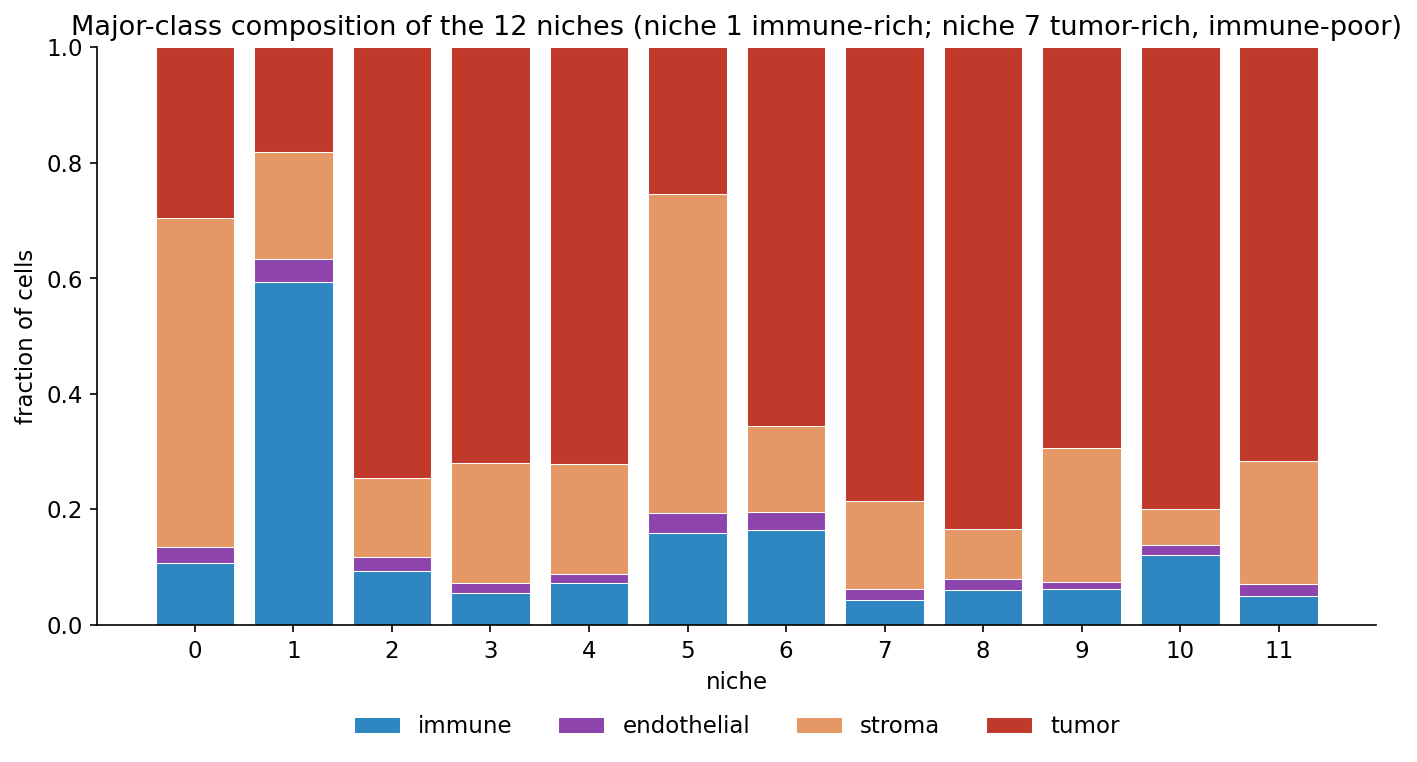
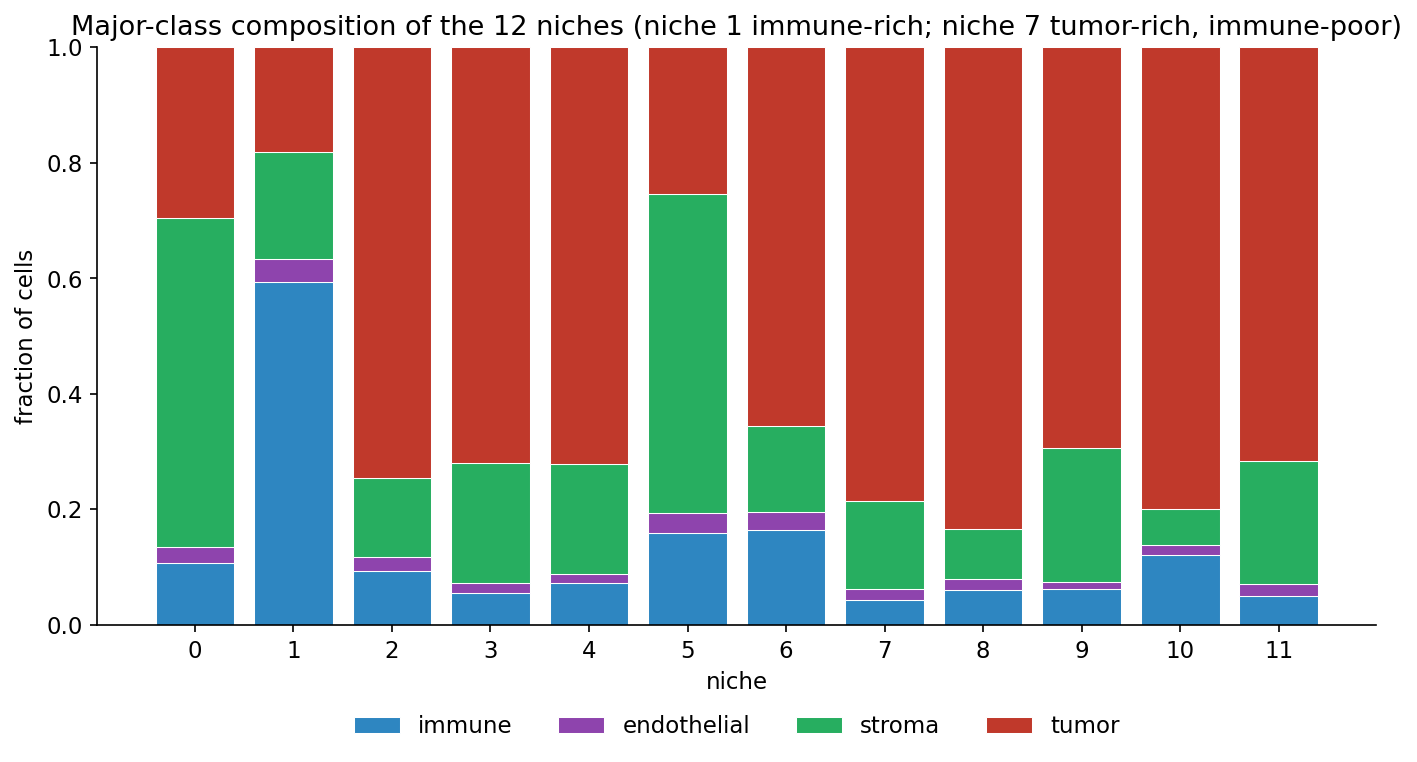
docs: add the four-core coordinate-validation figure as the README hero
Reproduces the four Basel cores (97/87/89/32% tumor) coloured by major class with the matched palette (green stroma), placed as the first image with a caption that frames it as the coordinate-recovery proof (nests vs confetti). Regenerates every figure with the consistent palette.

Changed region(s): [[0.2484, 0.2415, 0.9315, 0.7848], [0.0932, 0.1811, 0.2484, 0.7244], [0.5589, 0.9357, 0.59, 0.9659]]

diff --git a/scripts/make_figures.py b/scripts/make_figures.py
@@ -38,9 +38,18 @@ MAJOR_ORDER = ["immune", "endothelial", "stroma", "tumor"]
 MAJOR_COLOR = {
     "immune": "#2E86C1",
     "endothelial": "#8E44AD",
-    "stroma": "#E59866",
+    "stroma": "#27AE60",
     "tumor": "#C0392B",
 }
+
+# Four cores that span the tumor-fraction range, from homogeneous (nests) to
+# compartmentalised, used for the coordinate-validation hero figure.
+HERO_CORES = [
+    "BaselTMA_SP43_168_X10Y5",
+    "BaselTMA_SP42_127_X2Y8",
+    "BaselTMA_SP43_108_X13Y8",
+    "BaselTMA_SP43_144_X15Y1",
+]
 
 plt.rcParams.update(
     {
@@ -229,34 +238,32 @@ def fig_km_niche7(a: ad.AnnData) -> None:
 
 
 def fig_cores_spatial(a: ad.AnnData) -> None:
-    """Figure 2: example cores plotted at recovered coordinates, coloured by major
-    class, spanning tumor fraction from homogeneous to compartmentalised."""
+    """Coordinate-validation hero: four Basel cores plotted at their recovered
+    coordinates and coloured by major class, spanning tumor fraction from
+    homogeneous (nests) to compartmentalised. A correct mask-to-cell join produces
+    tissue morphology; a scrambled join would produce uniform confetti."""
     obs = a.obs
     xy = np.asarray(a.obsm["spatial"], dtype=float)
-    frac = obs.groupby("core", observed=True).apply(
-        lambda d: (d["major"] == "tumor").mean()
-    )
-    counts = obs["core"].value_counts()
-    big = counts[counts > 1500].index
-    frac = frac[frac.index.isin(big)].sort_values()
-    picks = [frac.index[0], frac.index[len(frac) // 3], frac.index[2 * len(frac) // 3], frac.index[-1]]
-    fig, axes = plt.subplots(1, 4, figsize=(16, 4.4))
-    core_arr = obs["core"].to_numpy()
+    core_arr = obs["core"].astype(str).to_numpy()
     maj_arr = obs["major"].astype(str).to_numpy()
-    for ax, core in zip(axes, picks):
+    order = ["tumor", "stroma", "immune", "endothelial"]  # legend + z-order
+    fig, axes = plt.subplots(1, 4, figsize=(16, 4.6))
+    for ax, core in zip(axes, HERO_CORES):
         m = core_arr == core
-        for cls in MAJOR_ORDER:
+        pct = int(round((maj_arr[m] == "tumor").mean() * 100))
+        for cls in order:
             mm = m & (maj_arr == cls)
             ax.scatter(xy[mm, 0], xy[mm, 1], s=2, c=MAJOR_COLOR[cls], label=cls)
-        ax.set_title(f"{int(frac[core] * 100)}% tumor", fontsize=11)
+        ax.set_title(f"{core}\n{int(m.sum()):,} cells, {pct}% tumor", fontsize=9)
         ax.set_xticks([])
         ax.set_yticks([])
         ax.set_aspect("equal")
-    axes[0].legend(markerscale=4, loc="upper left", fontsize=8, frameon=False)
+    axes[0].legend(markerscale=4, loc="upper right", fontsize=8, frameon=False)
     fig.suptitle(
-        "Recovered coordinates for four cores, coloured by major class "
-        "(left homogeneous, right compartmentalised)",
-        y=1.02,
+        "Basel cores at recovered coordinates, coloured by major class. "
+        "A correct join shows tissue nests and voids; a scrambled join would be uniform confetti.",
+        y=1.03,
+        fontsize=12,
     )
     _save(fig, "cores_spatial.png")
 

diff --git a/README.md b/README.md
@@ -6,6 +6,10 @@ Built for the Owkin Rewiring Biology Hackathon. Validated on the Basel breast ca
 
 An AI reading a tumor sees a composition vector. A pathologist sees a picture. Two patients can have identical cell-type proportions and opposite outcomes, and the only thing that separates them is where the cells sit. Locale supplies the map. More importantly, it supplies the limits of the map: the failure mode that destroys an AI Scientist in a regulated setting is not a missed finding, it is a confident report of a finding that is not there. Locale is built so that its refusals are as legible as its results.
 
+![Basel cores at recovered coordinates, coloured by major class](docs/figures/cores_spatial.png)
+
+*Four cores from the cohort, every cell drawn at its recovered coordinate and coloured by major class (tumor red, stroma green, immune blue, endothelial purple). The leftmost core is 97% tumor and shows genuine tissue nests and voids; the rightmost is 32% tumor and shows immune and tumor cells separating into compartments. A wrong coordinate join would produce uniform confetti in every panel. This is the geography that a composition vector cannot see, recovered from segmentation masks and verified by exact per-core cell-count agreement.*
+
 ### Three tests, three passes
 
 | Test | What it checks | Result |